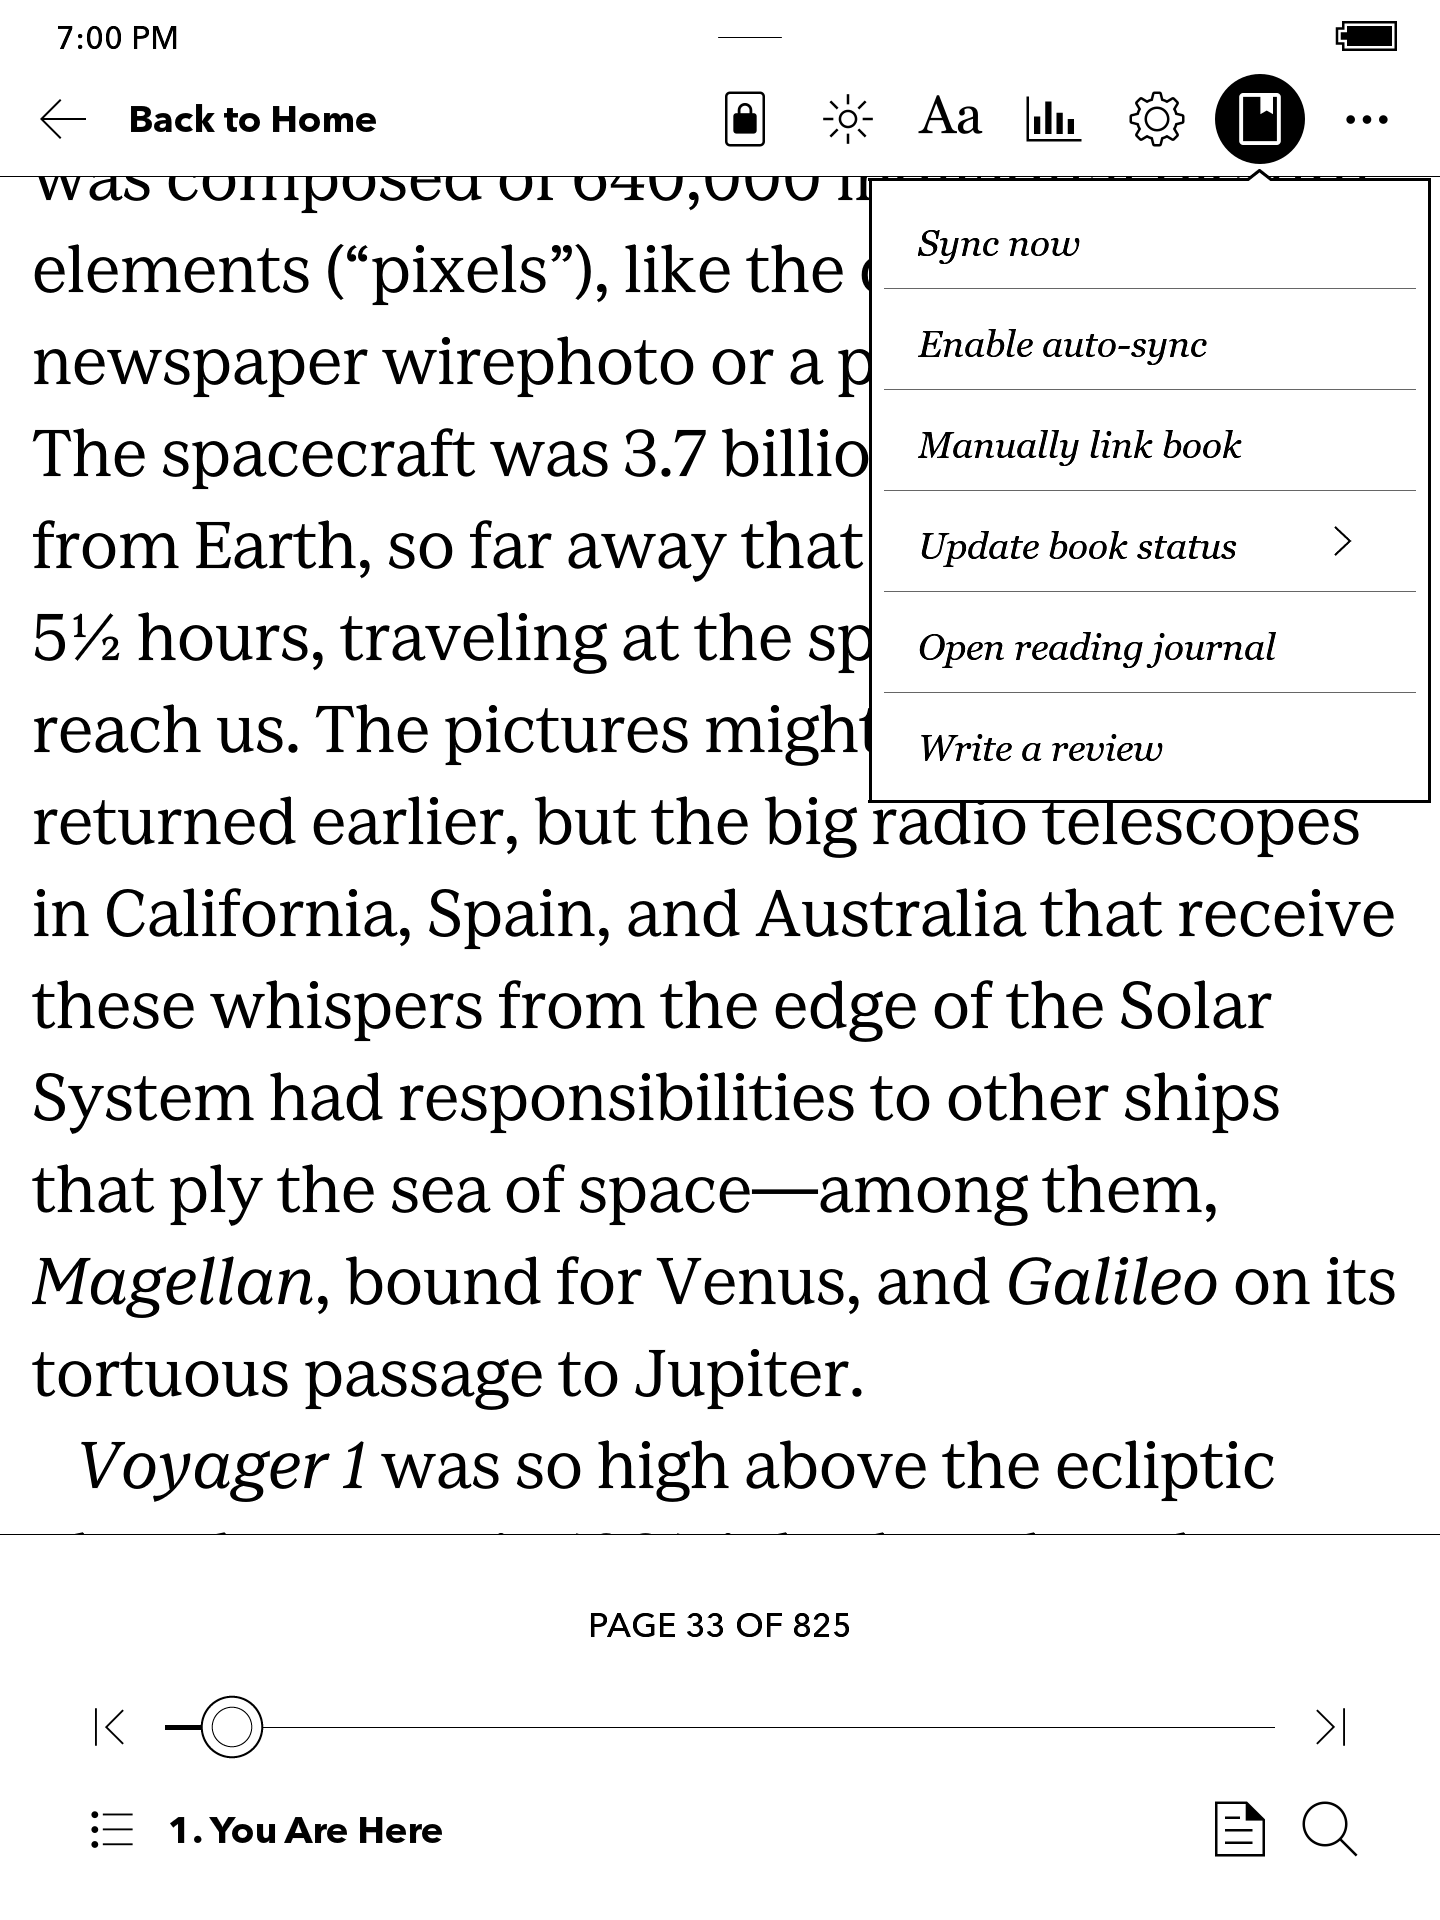
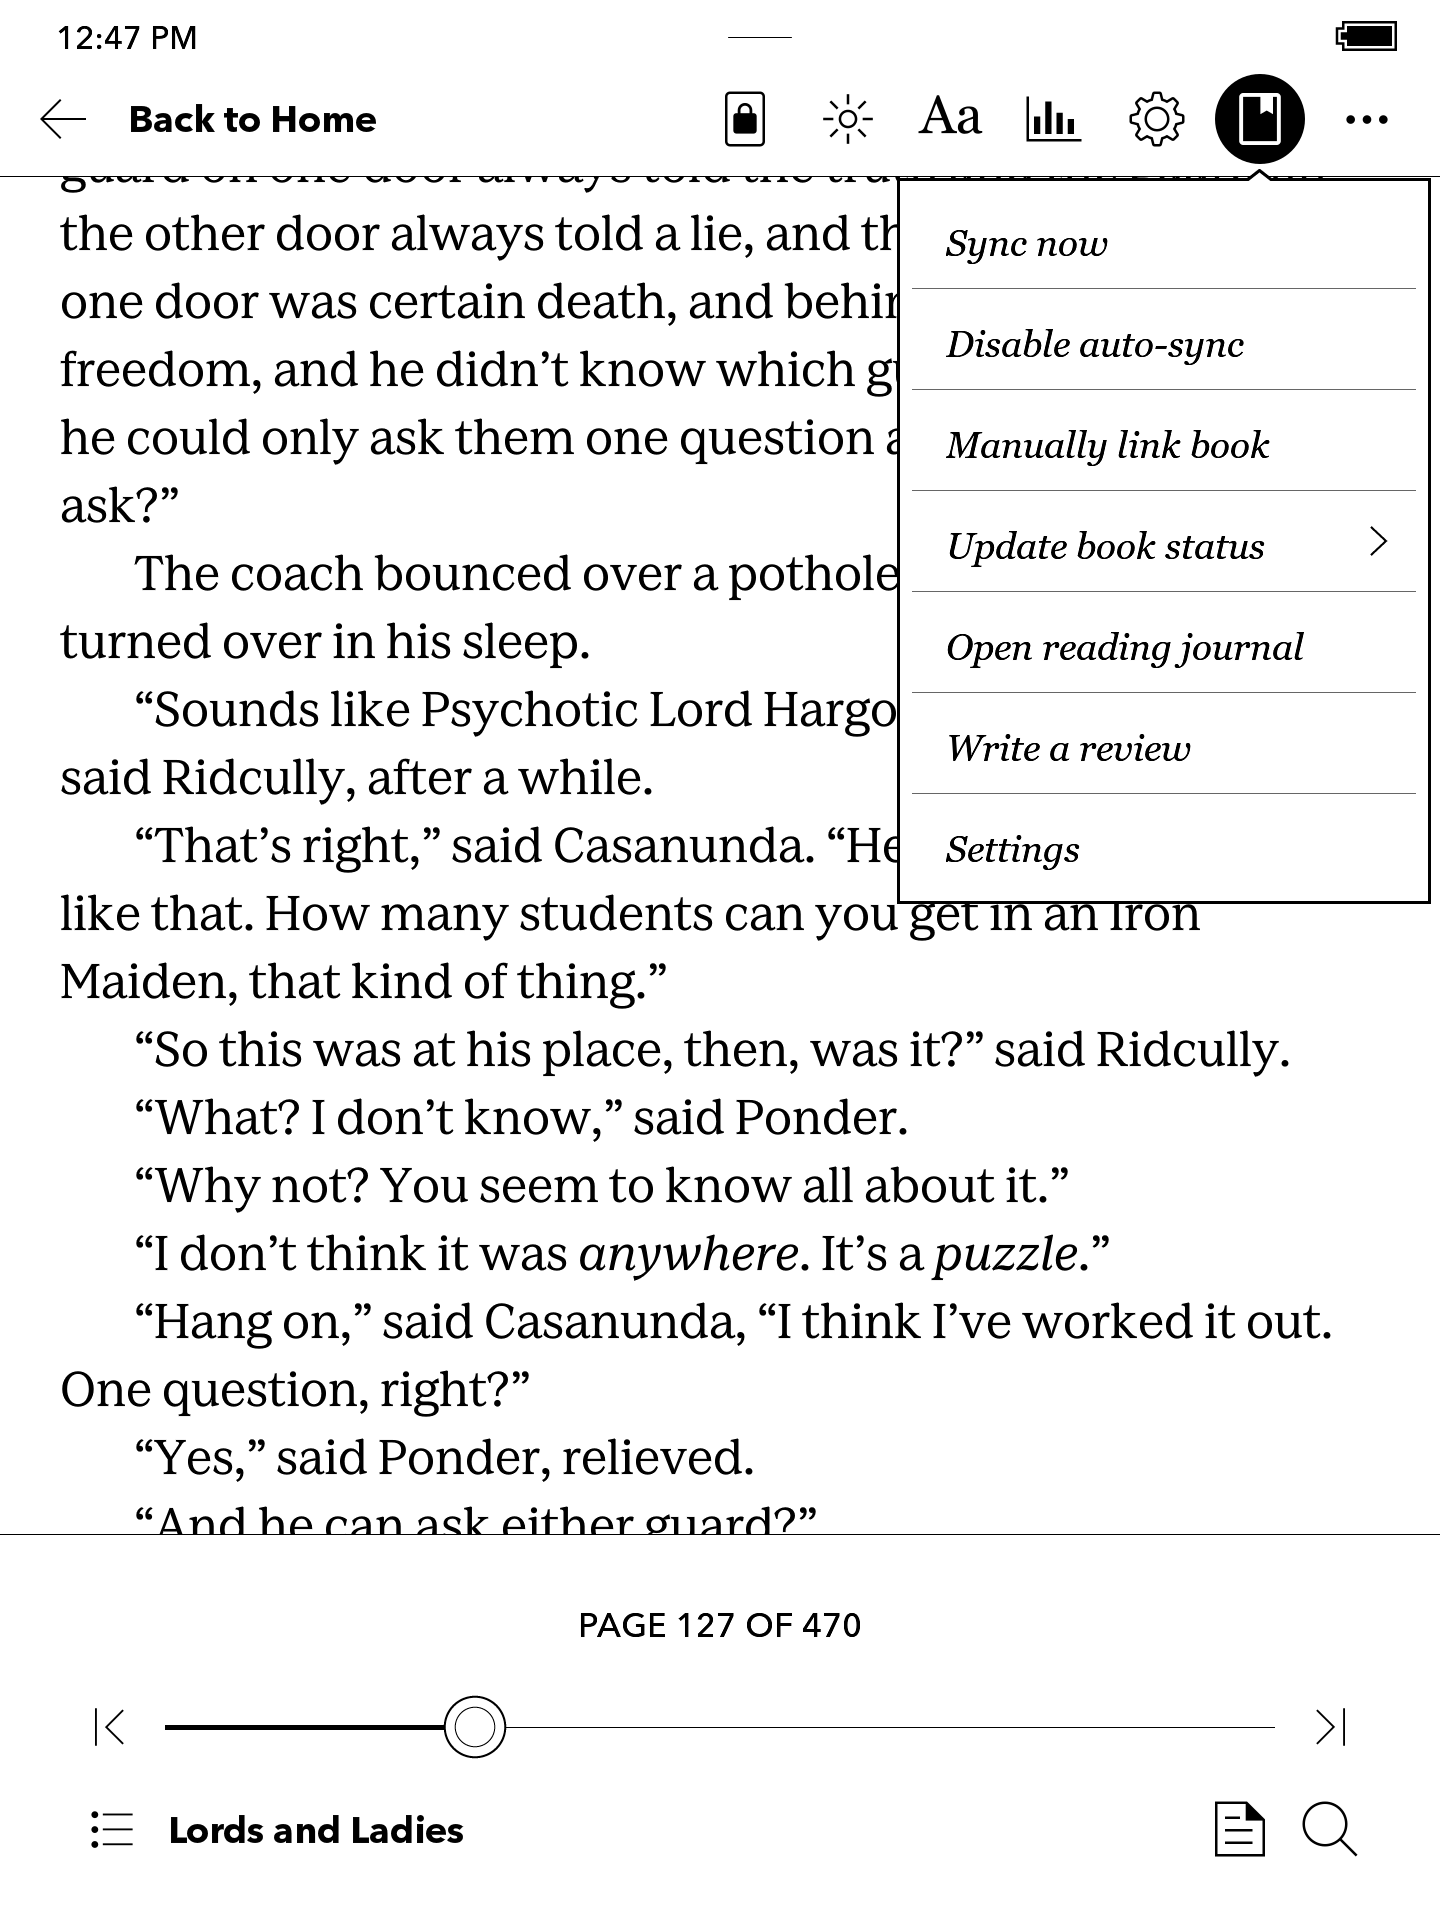
Update README.md

diff --git a/README.md b/README.md
@@ -1,20 +1,31 @@
 # NickelHardcover
 [Hardcover.app](https://hardcover.app/) integration for Kobo eReaders.
 
-Thanks to **pgaskin** for the [NickelHook](https://github.com/pgaskin/NickelHook) library and [NickelTC](https://github.com/pgaskin/NickelTC) toolchain without which this project would not be possible.
+Thanks to **pgaskin** for the [NickelHook](https://github.com/pgaskin/NickelHook) library and [NickelTC](https://github.com/pgaskin/NickelTC) toolchain, without which this project would not be possible.
 
 **Warning: Firmware version 5.x is not supported yet.**
 
 <img src="https://github.com/RedHatter/NickelHardcover/blob/main/screenshots/syncing.png?raw=true" alt="Syncing with hardcover tooltip" width="32%"> <img src="https://github.com/RedHatter/NickelHardcover/blob/main/screenshots/review.png?raw=true" alt="Review dialog" width="32%"> <img src="https://github.com/RedHatter/NickelHardcover/blob/main/screenshots/journal.png?raw=true" alt="Reading journal dialog" width="32%">
-<img src="https://github.com/RedHatter/NickelHardcover/blob/main/screenshots/menu.png?raw=true" alt="NickelHardcover menu" width="32%"> <img src="https://github.com/RedHatter/NickelHardcover/blob/main/screenshots/status.png?raw=true" alt="Reading status menu" width="32%"> <img src="https://github.com/RedHatter/NickelHardcover/blob/main/screenshots/linking.png?raw=true" alt="Manually linking dialog" width="32%">
+<img src="https://github.com/RedHatter/NickelHardcover/blob/main/screenshots/menu.png?raw=true" alt="NickelHardcover menu" width="24%"> <img src="https://github.com/RedHatter/NickelHardcover/blob/main/screenshots/status.png?raw=true" alt="Reading status menu" width="24%"> <img src="https://github.com/RedHatter/NickelHardcover/blob/main/screenshots/linking.png?raw=true" alt="Manually linking dialog" width="24%"> <img src="https://github.com/RedHatter/NickelHardcover/blob/main/screenshots/settings.png?raw=true" alt="Settings dialog" width="24%">
 
 ## Features
 
 * Automatically update reading progress on Hardcover
-* Automatically add Kobo highlights and annotations as Hardcover reading journal entries
+* Automatically add Kobo annotations as Hardcover reading journal entries
 * Review and rate books
 * View reading journal and add new entries
 * Update book status
+
+## FAQ
+
+* **Is my device supported?**  
+  All Kobo devices except the Kobo Mini (2012) are supported. Please make sure your device is fully up to date.
+* **Do I need to install NickelMenu as well?**  
+  No. NickelHardcover does not make use of NickelMenu.
+* **Why is it called NickelHardcover then?**  
+  The Kobo UI is internally referred to as Nickel on the device. The name is simply referencing the fact that this is a mod to the native UI.
+* **Can you add support for X feature?**  
+  Maybe. [Open a new issue](https://github.com/RedHatter/NickelHardcover/issues/new) and ask, be sure to provide your use case.
 
 ## Installation
 
@@ -27,10 +38,10 @@ Thanks to **pgaskin** for the [NickelHook](https://github.com/pgaskin/NickelHook
 To function, NickelHardcover needs to be configured with an authorization token from your Hardcover.app account.
 
 1. Visit [hardcover.app/account/api](https://hardcover.app/account/api) and sign in
-2. Copy the contents of the text box starting with “Bearer”
+2. Copy the contents of the text box starting with "Bearer”
 ![Authorization token](https://github.com/RedHatter/NickelHardcover/blob/main/screenshots/authorization_token.png?raw=true)
 3. Connect your Kobo and edit the file `.adds/NickelHardcover/config_example.ini`
-4. On the second line, labeled “authorization”, remove the starting semicolon and paste the token (copied in step 2) after the equals sign
+4. On the second line, labeled "authorization”, remove the starting semicolon and paste the token (copied in step 2) after the equals sign
 5. Modify any other settings to suit your preferences
 6. Save the file as `config.ini`
 7. Eject/disconnect your Kobo
@@ -73,23 +84,14 @@ While a book is open, you should find a new menu on the top right where all the 
 
 ### Linking a Hardcover book
 
-NickelHardcover attempts to determine which book to update on Hardcover using the ISBN of the open book. If that fails, or you would like more control, the “Manually link book” menu option allows you to manually select which book to update. The edition of the active read can be changed on the Hardcover book page under the description.
+NickelHardcover attempts to determine which book to update on Hardcover using the ISBN of the open book. If that fails, or you would like more control, the "Manually link book” menu option allows you to manually select which book to update. The edition of the active read can be changed on the Hardcover book page under the description.
 
 <img src="https://github.com/RedHatter/NickelHardcover/blob/main/screenshots/edition.png?raw=true" alt="Changing edition" width="400">
 
 ### Syncing
 
-There are a few ways to sync reading progress and highlights/annotations with Hardcover. You can trigger a manual sync at any time using the “Sync now” menu option. Additionally, auto-sync can be enabled for the open book using the "Enable auto-sync" menu option. When auto-sync will run depends on the following config options.
-
-* `sync_daily`  
-  Once per day at the specified hour even if the Kobo is asleep.
-* `threshold`  
-  Whenever the difference between the last synced read percentage and the current read percentage is above this threshold.
-* `sync_on_close`   
-  Immediately after closing a book or the Kobo is put to sleep. Can also be set to a number 1-100 to only run when the read percentage difference is above that threshold.
-
-NickelHardcover will, one, automatically sync whenever the book is closed, or the Kobo is put to sleep (based on the `sync_on_close` setting), and two, sync whenever the difference in reading percentage is more than the `threshold` setting.
+There are a few ways to sync reading progress and highlights/annotations with Hardcover. You can trigger a manual sync at any time using the "Sync now” menu option. Additionally, auto-sync can be enabled for the open book using the "Enable auto-sync" menu option. When auto-sync runs can be configured in the NickelHardcover settings.
 
 ## Uninstall
 
-To uninstall NickelHardcover, simply create a file called `nickelhardcover_uninstall` on the root of your device and manually restart your Kobo.
+To uninstall NickelHardcover, create a file called `nickelhardcover_uninstall` on the root of your device and manually restart your Kobo.
